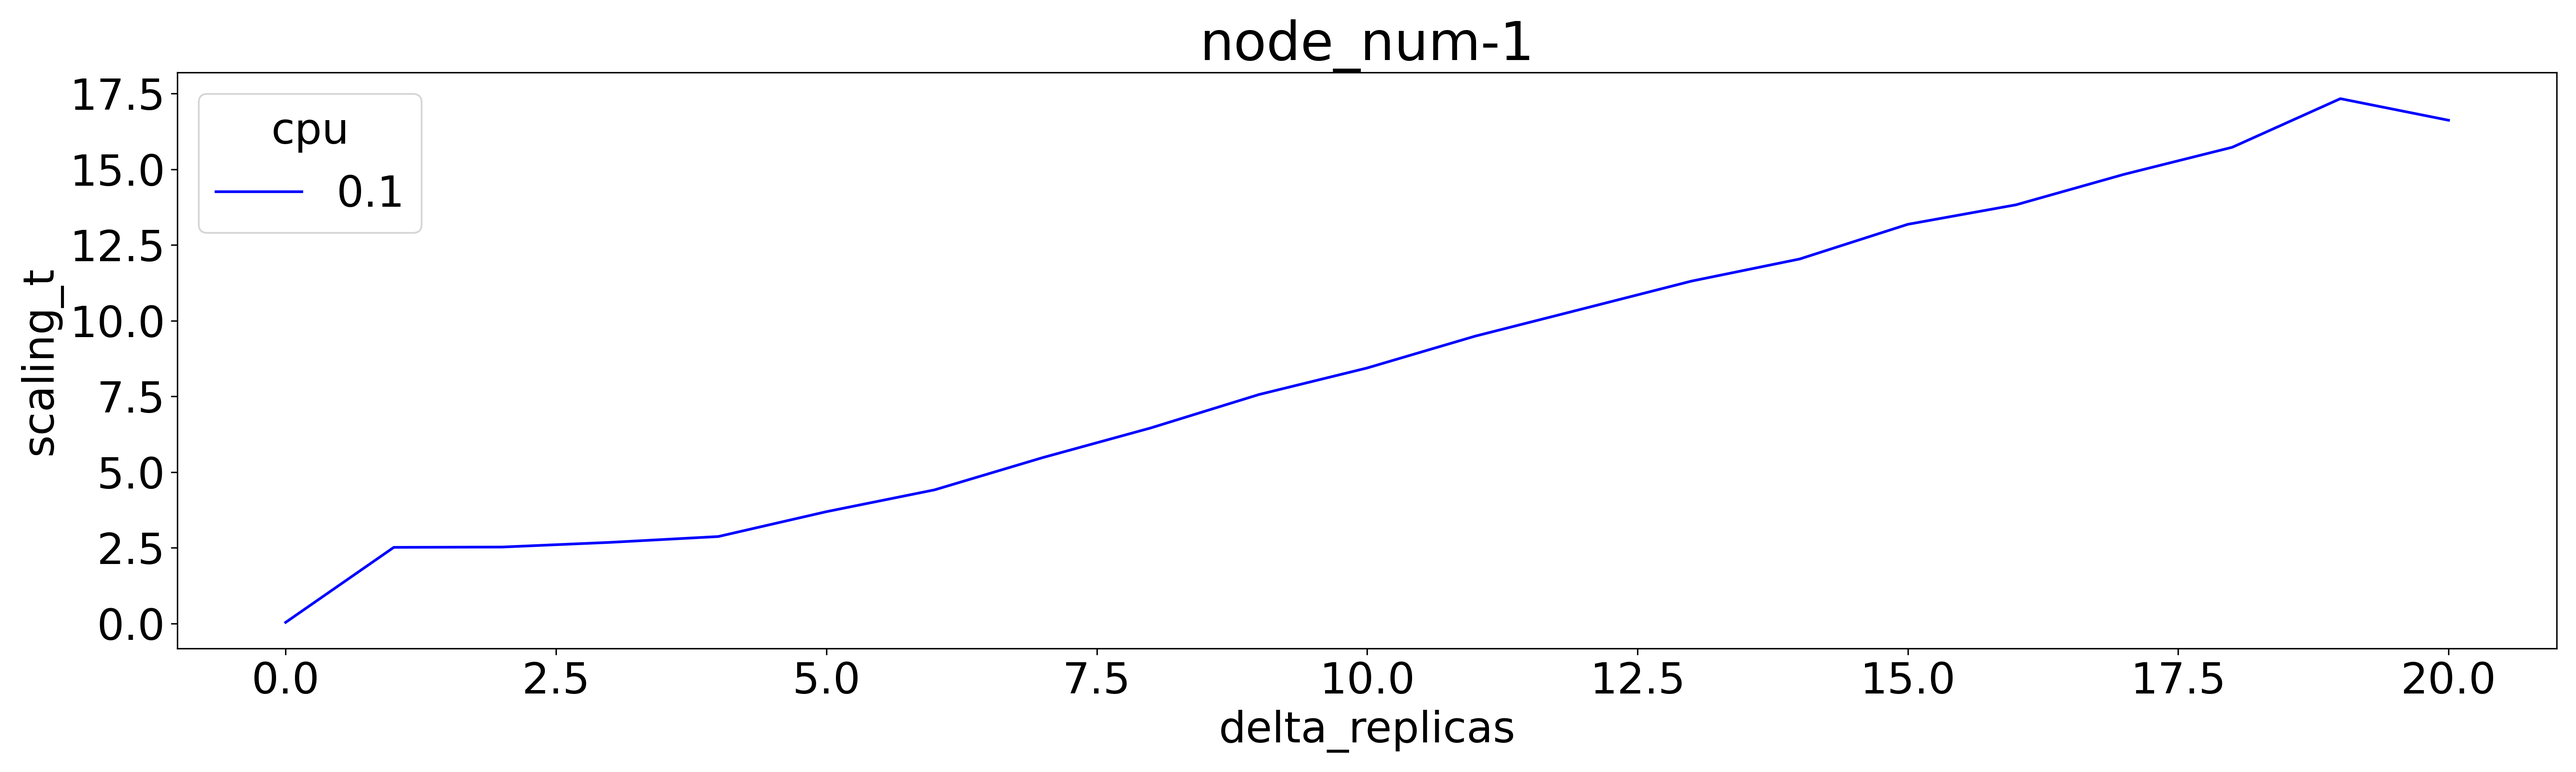
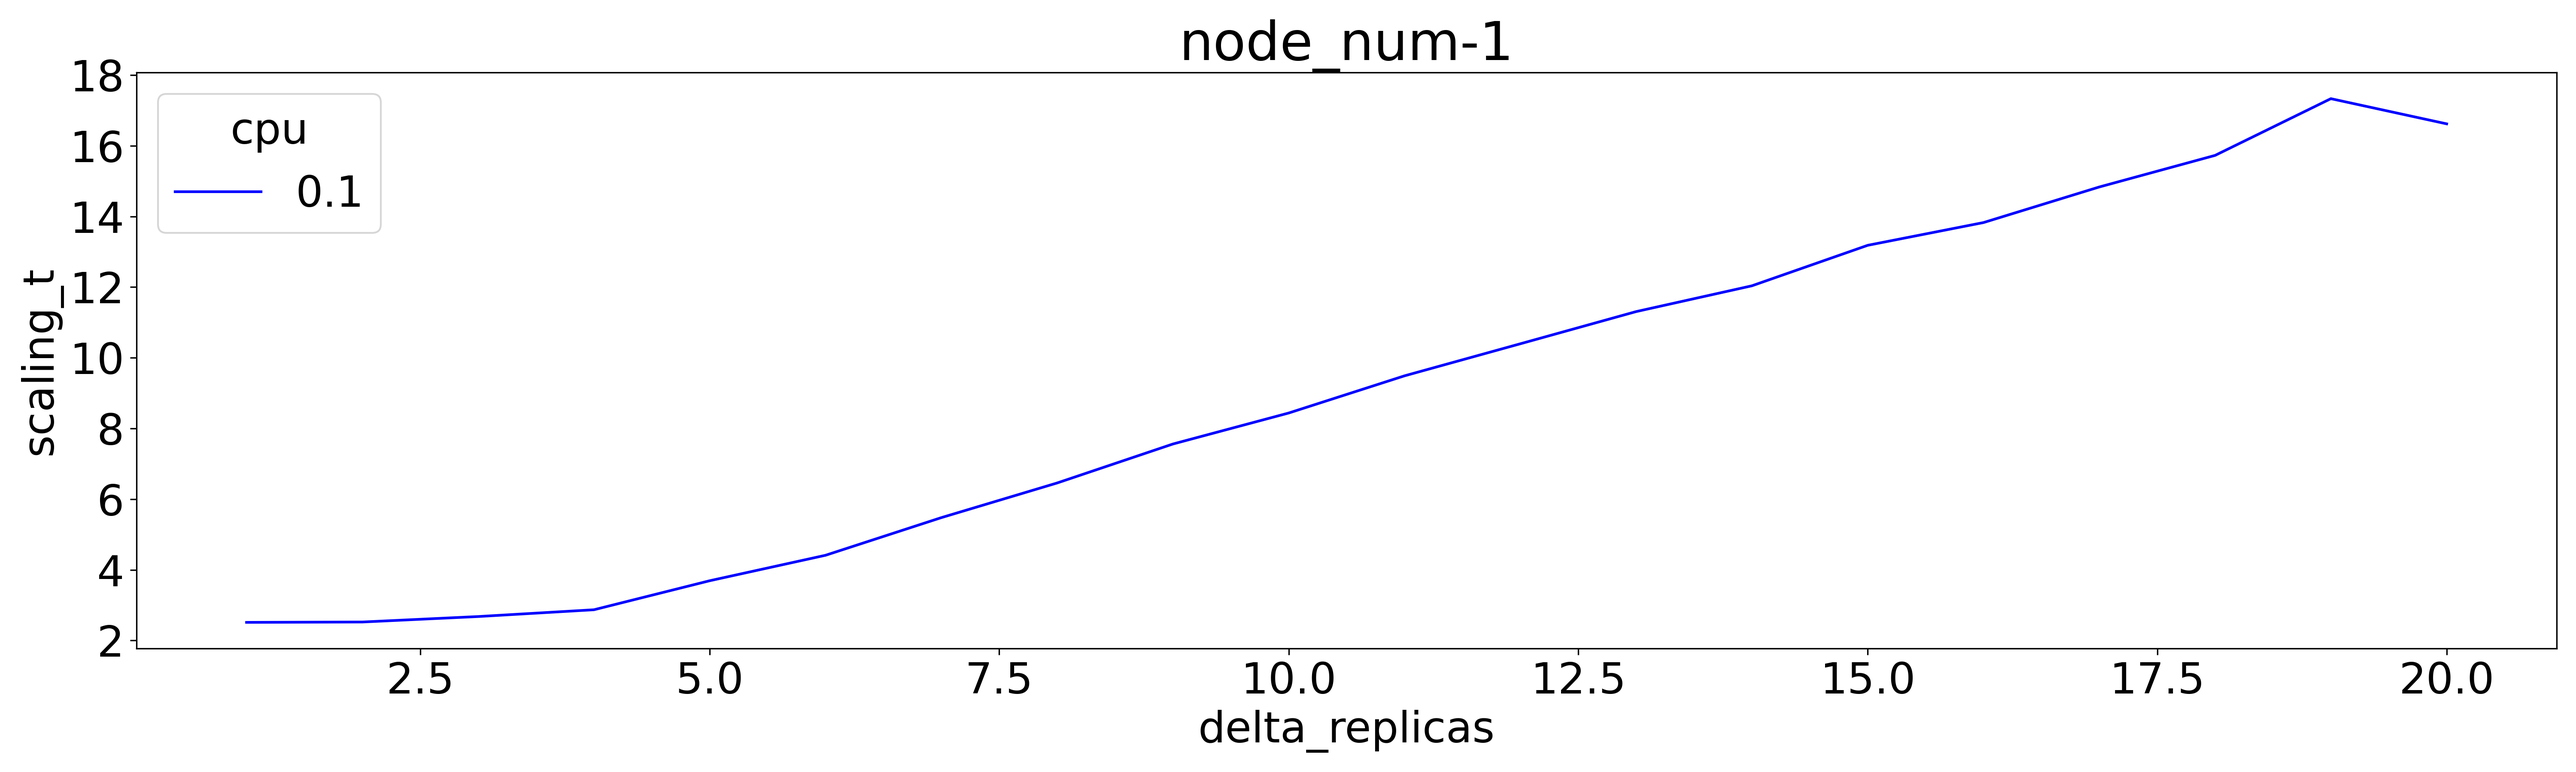
Update

diff --git a/python/k8s_configer/test_scaling_cost_plot.py b/python/k8s_configer/test_scaling_cost_plot.py
@@ -107,7 +107,7 @@ def plot_box_with_different_node_num(df, cpu, node_num_list, delta_replicas_list
         for delta_replicas in delta_replicas_list:
             data = data_filter(df, node_num=node_num, cpu=cpu, delta_replicas=delta_replicas)
             xx = data["delta_replicas"].mean()
-            yy = data["scaling_t"]
+            yy = data["scaling_t"].values
             x.append(xx)
             y.append(yy)
 
@@ -126,12 +126,16 @@ def plot_box_with_different_node_num(df, cpu, node_num_list, delta_replicas_list
 
     my_plotter = Plotter(figsize=(20,10))
 
+    y_0 = y_list[0][0]
+    y_1 = y_list[1][20]
+    y_2 = y_list[2][10]
+
     print(f"x:{x_list}")
-    print(f"box_data_list:{y_list.shape}")
+    print(f"box_data_list:{y_list}")
 
 
     my_plotter.plot_boxs(
-        x=x_list,
+        x=x_list[0],
         box_data_list=y_list,
         box_label_list=box_label_list,
         x_label="Replicas",
@@ -152,7 +156,7 @@ def test_data_filter(node_num=1):
     pass
 
 
-def test_plot_different_cpu(node_num=1, cpu_list=[0.1], delta_replicas_list=[i for i in range(21)], csv_path="./results/res.csv", exp_name="test"):
+def test_plot_different_cpu(node_num=1, cpu_list=[0.1], delta_replicas_list=[i for i in range(1, 21)], csv_path="./results/res.csv", exp_name="test"):
     # 加载csv文件
     df = pd.read_csv(csv_path)
     plot_different_cpu(

diff --git a/python/k8s_configer/plot.py b/python/k8s_configer/plot.py
@@ -196,7 +196,7 @@ class Plotter(Pyplot_config):
     # 绘制 box 图
     def plot_boxs(self, x=None, box_data_list=None, box_label_list=None, x_label="Replicas", y_label="Cost", legend_title=None, legend_loc="best", save_root="/home/wzj/GiteeProjects/faas-scaler/results", filename="demo.png", is_show=False):
 
-        fig = plt.figure(figsize=(8,6), dpi=300)
+        fig = plt.figure(figsize=self.figsize, dpi=300)
         ax = fig.add_subplot(111)
         ax.yaxis.grid(linestyle='dashed')
         ax.set_ylabel(y_label, fontsize=self.label_size)
